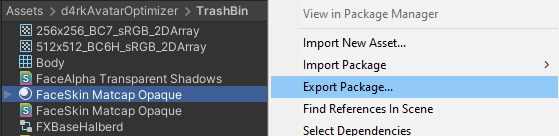
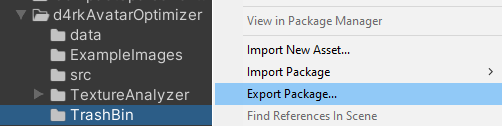
update readme for v1.9

diff --git a/README.md b/README.md
@@ -20,10 +20,9 @@ Shaders can do a lot of *weird* things, therefore the optimizer is bound to fail
 
 You can also tell the optimizer to ignore certain parts of the model with the "Exclusions" foldout.  
 Finally you can try to make a bug report and maybe I'll be able to fix it.  
-For that select the material and export it as `.unitypackage`.
-You can find it in the `d4rkAvatarOptimizer/TrashBin` folder:  
+For that export the `d4rkAvatarOptimizer/TrashBin` folder as a unity package like so:  
 ![Export Material](./ExampleImages/exportMaterial0.png)  
-Then in the next dialog select only the material and shader files in the TrashBin folder like so:  
+Then in the next dialog uncheck the "Include dependencies" checkbox and click "Export":  
 ![Export Material](./ExampleImages/exportMaterial1.png)  
 Once you have the `.unitypackage` file, please make a bug report on the [issue tracker](https://github.com/d4rkc0d3r/d4rkAvatarOptimizer/issues).
 

diff --git a/CHANGELOG.md b/CHANGELOG.md
@@ -1,7 +1,10 @@
-## Next Version
+## v1.9
+### Features
+* Multiple performance improvements that reduce the time it takes to optimize an avatar by a factor of around 2x.
+
 ### Changes
 * Instead of doing a `AssetDatabase.Refresh()` to import the optimized shaders it now uses `ImportAsset()` inside a `StartAssetEditing()` and `StopAssetEditing()` block. This saves a tiny bit of time.
-* Replaced two heavily used regex with string and char operations. This saves a tiny bit of time.
+* Replaced two heavily used regex with string and char operations. This saves a bit of time.
 * Moved most of the generated shader code into include files. This saves a lot of time when importing the shaders.
 * Strip `[Drawer]` attributes from the generated shader code. This saves a significant amount of time when assigning the shader to a material.
 
